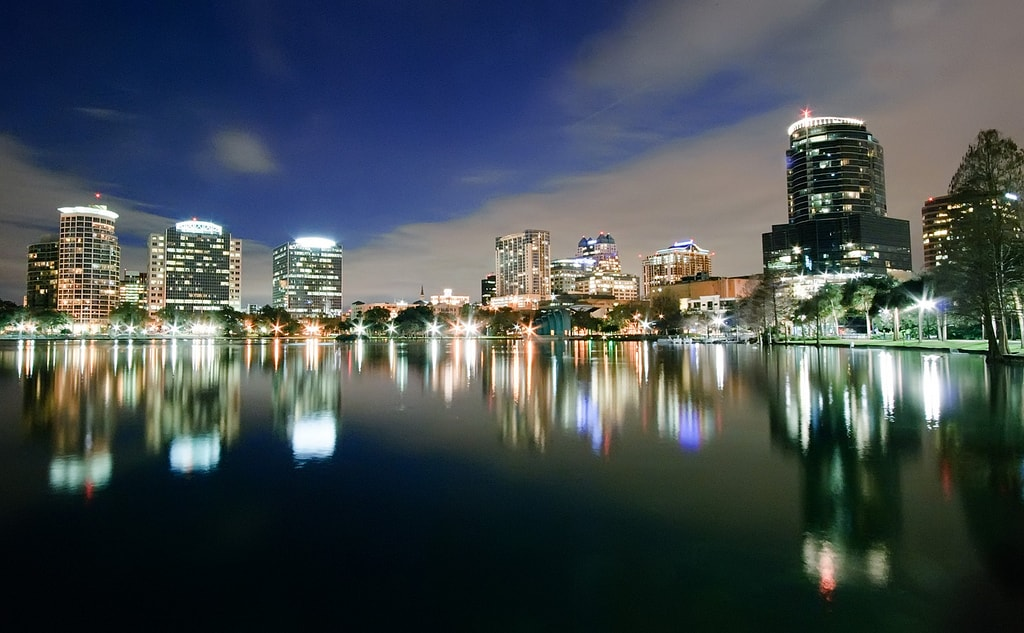
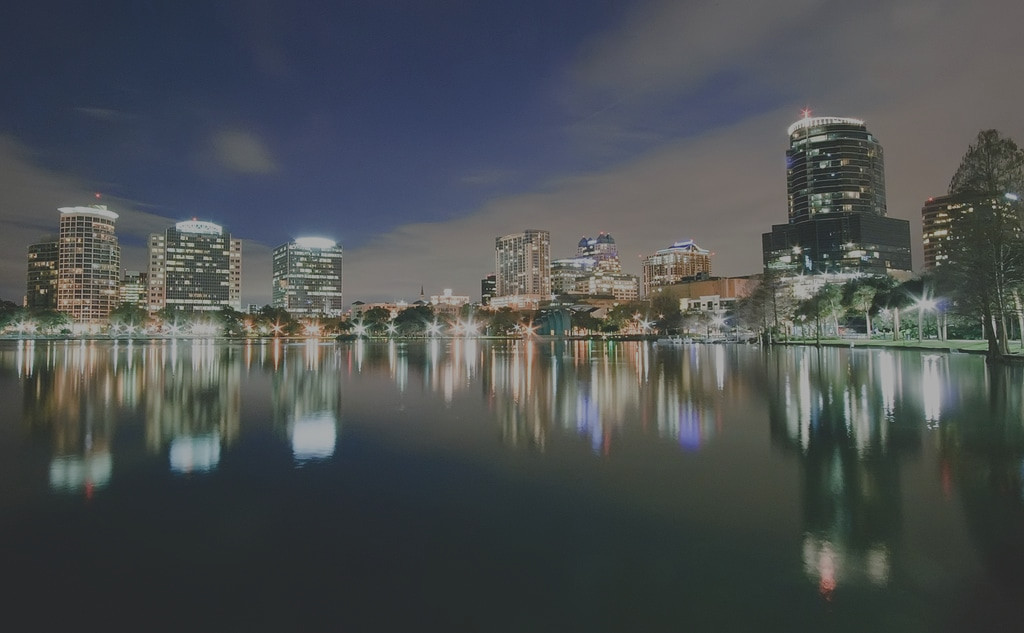
Faded the background so the text would be more visible added new google analytics script, updates to resume, music and apps page

diff --git a/Views/resumePage.html b/Views/resumePage.html
@@ -3,33 +3,27 @@
         <div class="mmappblockcontainer">
             <div class="mmappblock mmsmallappblock">
                 <h1>
-                    Skills
-                </h1>
-                <p>
-                    <ul class="mmul">
-                        <li class="mmli">ASP.net MVC, Javascript, Knockout.js, AngularJS, jQuery, Socket.io, Create.js, Bootstrap, HTML, CSS, php</li>
-                        <li class="mmli">Android, Ion, JSoup</li>
-                        <li class="mmli">MS SQL, RavenDB, MySQL, XML, JSON, MusicXML</li>
-                        <li class="mmli">AWS S3</li>
-                        <li class="mmli">C#, Java</li>
-                        <li class="mmli">Youtrack, Trello, Waffle.io, Teamcity, Travis CI</li>
-                    </ul>
-                </p>
-            </div>
-        </div>
-        
-    </div>
-    <div class="col-lg-12">
-        <div class="mmappblockcontainer">
-            <div class="mmappblock mmsmallappblock">
-                <h1>
                     Experience
                 </h1>
+                <p>
+                    <span class="mmstrong"> “Right Brain Media” — .NET developer (June 2016- today)</span>
+                </p>
+                <p>
+                    Design, development and management of new web applications, maintaining, debugging, refactoring, testing and support, project deployment, performance improvements and adding new features for their existing web applications.
+                    The work is being done on a contract basis with different companies and organizations. Some of the clients that I worked for and still working for are Darden, USSSA, Safer foundation and etc.
+                </p>
+                <p>
+                    <i>Technologies</i>: ASP.NET, C#, Javascript, AngularJS, jQuery, HTML, CSS, Bootstrap, MSSQL, JSON, XML, WCF services, DNN, Jira
+                </p>
                 <p>
                     <span class="mmstrong"> “Visit.com Adriatic” — Programmer/Web developer (June 2012- July 2015)</span>
                 </p>
                 <p>
-                    Developing new and maintaining existing web applications, code analysis and review, debugging, testing and support, communicating with the clients, project deployment, performance improvements, adding new features, documenting functionalities.Using agile development techniques we have worked on multiple projects in the tourism industry. ”Visit.com Adriatic” is a subcontractor for “Visit Technology Group”, Sweden.
+                    Developing new and maintaining existing web applications, code analysis and review, debugging, testing and support, communicating with the clients, project deployment, performance improvements, adding new features, documenting functionalities.
+                    Using agile development techniques we have worked on multiple projects in the tourism industry. ”Visit.com Adriatic” is a subcontractor for “Visit Technology Group”, Sweden.
+                </p>
+                <p>
+                    <i>Technologies</i>: ASP.NET MVC, C#, Javascript, Knockout.js, jQuery, HTML, CSS, Bootstrap, MSSQL, RavenDB, WCF services, Web API, DNN, Youtrack, TeamCity, XML
                 </p>
             </div>
         </div>
@@ -40,6 +34,13 @@
                 <h1>
                     Projects
                 </h1>
+                <p>
+                    <span class="mmstrong">So you lost a leg, now what?</span>&nbsp;
+                    This is a website that I have developed and that I am very passionate about.
+                    Here I will try to put as much information as possible about the challenges people are facing after an amputation. My dream is for this project to help other people in need. I was at the same spot and I couldn't find any information that could help me out. That is how this site came to be.
+
+                    More information about the project can be found at <a href="http://www.soyoulostalegnowwhat.com" target="_blank">soyoulostalegnowwhat.com</a>
+                </p>
                 <p>
                     <span class="mmstrong">JumboGames</span>&nbsp;allows sports teams to invite their fans to compete for prizes by playing trivia games on the Jumbotron using their mobile devices as a game controller.
                 </p>

diff --git a/Views/musicPage.html b/Views/musicPage.html
@@ -9,7 +9,7 @@
             <div class="mmappcellright">
                 <h1>uNDER the bLUE</h1>
                 <span>
-                    <span class="mmstrong">Genre:</span> Acoustic, Instrumental, Ambient
+                    <span class="mmstrong">Genre:</span> Acoustic, Instrumental, Ambient, Metal, Hardcore
                 </span>
                 <br />
                 <span>
@@ -18,10 +18,18 @@
                 </span>
                 <br />
                 <br />
+                <iframe width="100%" height="166" scrolling="no" frameborder="no" src="https://w.soundcloud.com/player/?url=https%3A//api.soundcloud.com/tracks/403108902&color=%23ff5500&auto_play=false&hide_related=false&show_comments=true&show_user=true&show_reposts=false&show_teaser=true"></iframe>
+                <br />
+                <br />
+                <iframe width="100%" height="166" scrolling="no" frameborder="no" src="https://w.soundcloud.com/player/?url=https%3A//api.soundcloud.com/tracks/321831725&color=%23ff5500&auto_play=false&hide_related=false&show_comments=true&show_user=true&show_reposts=false&show_teaser=true"></iframe>
+                <br />
+                <br />
                 <iframe width="100%" height="166" scrolling="no" frameborder="no" src="https://w.soundcloud.com/player/?url=https%3A//api.soundcloud.com/tracks/259517563&amp;color=ff5500&amp;auto_play=false&amp;hide_related=true&amp;show_comments=false&amp;show_user=true&amp;show_reposts=false"></iframe>
                 <br />
                 <br />
                 <iframe width="100%" height="166" scrolling="no" frameborder="no" src="https://w.soundcloud.com/player/?url=https%3A//api.soundcloud.com/tracks/258193889&amp;color=ff5500&amp;auto_play=false&amp;hide_related=true&amp;show_comments=false&amp;show_user=true&amp;show_reposts=false"></iframe>
+                <br />
+                <br />
             </div>
         </div>
     </div>

diff --git a/index.html b/index.html
@@ -5,9 +5,9 @@
     <meta name="description" content="MarkoMarksDevelopment - the official and personal website of Marko Markovic. Topics covered are software development, algorithms and music.">
     <meta name="keywords" content="MarkoMarksDevelopment, MarkoMarks, Development, Marko, Marks, Marko Markovic, Resume, Melody Generator, Anchorman, Anchorman Free, Android, Software developer, Web developer, Under The Blue, JumboGames, Belgrade, Serbia, Orlando, Florida " />
     <link rel="canonical" href="http://www.markomarks.com" />
-	<title>
-	    MarkoMarks Development
-	</title>
+    <title>
+        MarkoMarks Development
+    </title>
     <script type="text/javascript" src="Scripts/jquery-2.2.3.min.js"></script>
     <link href="Content/bootstrap.min.css" rel="stylesheet" />
     <link href="Content/base.css" rel="stylesheet" />
@@ -19,15 +19,16 @@
     <script type="text/javascript" src="Scripts/bootstrap.min.js"></script>
     <script type="text/javascript" src="Scripts/dragend.min.js"></script>
 
+    <!-- Global site tag (gtag.js) - Google Analytics -->
+    <script async src="https://www.googletagmanager.com/gtag/js?id=UA-114875502-1"></script>
     <script>
-          (function(i,s,o,g,r,a,m){i['GoogleAnalyticsObject']=r;i[r]=i[r]||function(){
-          (i[r].q=i[r].q||[]).push(arguments)},i[r].l=1*new Date();a=s.createElement(o),
-          m=s.getElementsByTagName(o)[0];a.async=1;a.src=g;m.parentNode.insertBefore(a,m)
-          })(window,document,'script','https://www.google-analytics.com/analytics.js','ga');
+        window.dataLayer = window.dataLayer || [];
+        function gtag() { dataLayer.push(arguments); }
+        gtag('js', new Date());
 
-          ga('create', 'UA-39736356-1', 'auto');
-          ga('send', 'pageview');
+        gtag('config', 'UA-114875502-1');
     </script>
+
 </head>
 <body class="grad">
     <div class="mmheader gradfiller">

diff --git a/Views/appsPage.html b/Views/appsPage.html
@@ -29,10 +29,10 @@
                 <div class="mmappcellright">
                     <p>
                             02/20/2016 - Update:
-                            At the moment I am trying to create a MelodyGenerator webapp. The domain has been setup at <a href="http://www.melodybrains.com/" target="_blank">melodybrains.com</a> Check back soon for more information.
+                            At the moment I am working on a MelodyGenerator webapp. Checkout <a href="http://www.melodybrains.com/" target="_blank">melodybrains.com</a> about the current progress being made.
                     </p>
                     <p>
-                        “MelodyGenerator” produces melodies with backing chords. It uses MusicXML and MIDI as an output format so that the generated melodies can be used as an input to the user’s DAW recording program of choice. The main idea is to help hobby and professional musicians in their music creation process.
+                        “MelodyGenerator” produces melodies with backing chords. The main idea is to help hobby and professional musicians in their music creation process. It uses MusicXML and MIDI as an output format. Generated melodies can be at the DAW recording program of your choice.
                     </p>
                     <p>
                         C#, midi-dot-net, Winforms, MusicXML
